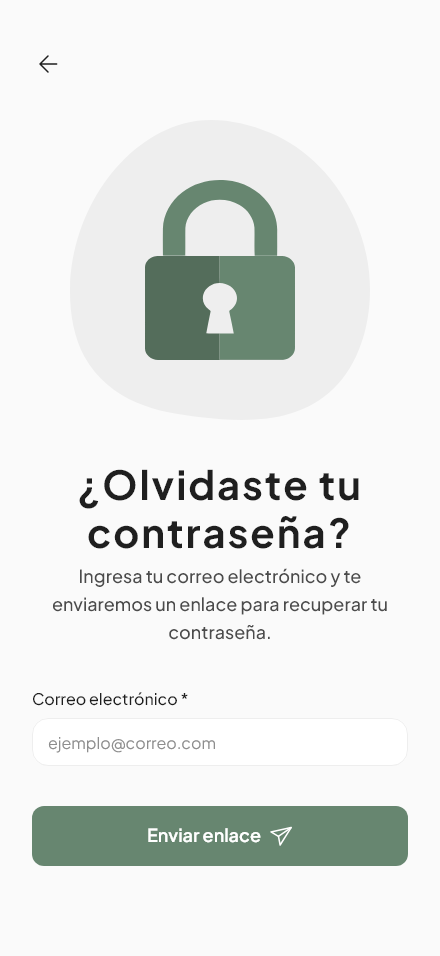
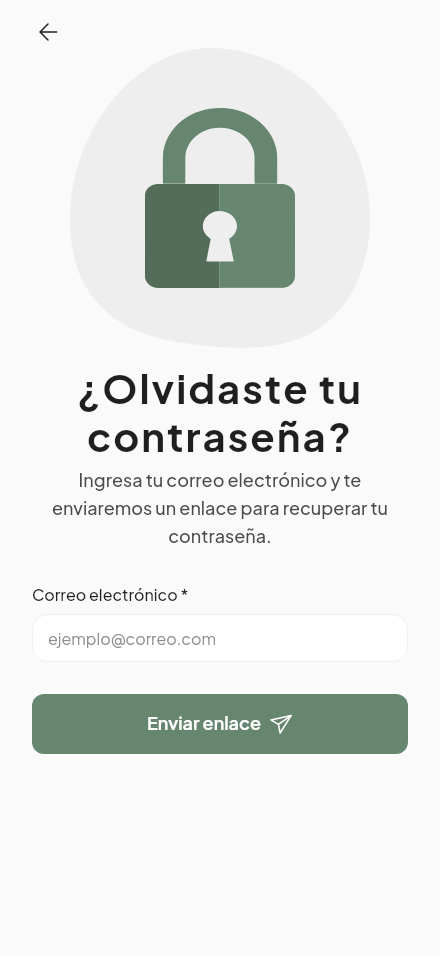
fix: fit the password reset screen without scrolling
Lift the back arrow closer to the top and let the illustration take the
height left over, so the screen fits one screen tall. With the keyboard
open the illustration shrinks away and the screen scrolls instead of
overflowing.

diff --git a/lib/screens/seedly_password_reset_screen.dart b/lib/screens/seedly_password_reset_screen.dart
@@ -30,6 +30,11 @@ class SeedlyPasswordResetScreen extends StatefulWidget {
 }
 
 class _SeedlyPasswordResetScreenState extends State<SeedlyPasswordResetScreen> {
+  /// Height of everything except the illustration (padding, header, texts,
+  /// field, button and their gaps), generously rounded up so the layout never
+  /// overflows; what is left over goes to the illustration.
+  static const _fixedHeight = 500.0;
+
   final _formKey = GlobalKey<FormState>();
   late final _email = TextEditingController(text: widget.initialEmail);
   bool _busy = false;
@@ -85,84 +90,98 @@ class _SeedlyPasswordResetScreenState extends State<SeedlyPasswordResetScreen> {
       child: Scaffold(
         backgroundColor: SeedlyPalette.neutral[100],
         body: SafeArea(
-          child: SingleChildScrollView(
-            keyboardDismissBehavior: ScrollViewKeyboardDismissBehavior.onDrag,
-            padding: const EdgeInsets.symmetric(horizontal: 32, vertical: 48),
-            child: Column(
-              crossAxisAlignment: CrossAxisAlignment.stretch,
-              children: [
-                SeedlyHeader(
-                  title: '',
-                  onBack: () => Navigator.of(context).pop(),
-                ),
-                const SizedBox(height: 40),
-                Center(
-                  // Shrinks with the screen on phones narrower than Figma's.
-                  child: FittedBox(
-                    fit: BoxFit.scaleDown,
-                    child: SizedBox.square(
-                      dimension: 300,
-                      child: Stack(
-                        alignment: Alignment.center,
-                        children: [
-                          SvgPicture.asset(
-                            'assets/images/recover_blob.svg',
-                            width: 300,
-                            height: 300,
+          // The illustration takes the height the rest of the screen leaves
+          // free, so it fits without scrolling. With the keyboard up it
+          // shrinks away and, if the form still doesn't fit, the screen
+          // scrolls instead of overflowing.
+          child: LayoutBuilder(
+            builder: (context, constraints) {
+              final illustration = (constraints.maxHeight - _fixedHeight).clamp(
+                0.0,
+                300.0,
+              );
+              return SingleChildScrollView(
+                keyboardDismissBehavior:
+                    ScrollViewKeyboardDismissBehavior.onDrag,
+                padding: const EdgeInsets.fromLTRB(32, 16, 32, 32),
+                child: Column(
+                  crossAxisAlignment: CrossAxisAlignment.stretch,
+                  children: [
+                    SeedlyHeader(
+                      title: '',
+                      onBack: () => Navigator.of(context).pop(),
+                    ),
+                    SizedBox(
+                      height: illustration,
+                      child: Center(
+                        child: FittedBox(
+                          fit: BoxFit.scaleDown,
+                          child: SizedBox.square(
+                            dimension: 300,
+                            child: Stack(
+                              alignment: Alignment.center,
+                              children: [
+                                SvgPicture.asset(
+                                  'assets/images/recover_blob.svg',
+                                  width: 300,
+                                  height: 300,
+                                ),
+                                SvgPicture.asset(
+                                  'assets/images/recover_lock.svg',
+                                  width: 150,
+                                  height: 180,
+                                ),
+                              ],
+                            ),
                           ),
-                          SvgPicture.asset(
-                            'assets/images/recover_lock.svg',
-                            width: 150,
-                            height: 180,
-                          ),
-                        ],
+                        ),
                       ),
                     ),
-                  ),
+                    const SizedBox(height: 16),
+                    Text(
+                      '¿Olvidaste tu contraseña?',
+                      textAlign: TextAlign.center,
+                      style: textTheme.displayMedium,
+                    ),
+                    const SizedBox(height: 6),
+                    Text(
+                      'Ingresa tu correo electrónico y te enviaremos un '
+                      'enlace para recuperar tu contraseña.',
+                      textAlign: TextAlign.center,
+                      style: textTheme.headlineSmall?.copyWith(
+                        fontWeight: FontWeight.w500,
+                        color: SeedlyPalette.neutral[700],
+                      ),
+                    ),
+                    const SizedBox(height: 32),
+                    Form(
+                      key: _formKey,
+                      autovalidateMode: _autovalidate,
+                      child: SeedlyInput(
+                        label: 'Correo electrónico *',
+                        hint: 'ejemplo@correo.com',
+                        controller: _email,
+                        keyboardType: TextInputType.emailAddress,
+                        textInputAction: TextInputAction.done,
+                        autofillHints: const [AutofillHints.email],
+                        validator: seedlyEmailError,
+                      ),
+                    ),
+                    const SizedBox(height: 32),
+                    SeedlyButton(
+                      label: 'Enviar enlace',
+                      expand: true,
+                      trailing: SvgPicture.asset(
+                        'assets/images/recover_send.svg',
+                        width: 24,
+                        height: 24,
+                      ),
+                      onPressed: _send,
+                    ),
+                  ],
                 ),
-                const SizedBox(height: 40),
-                Text(
-                  '¿Olvidaste tu contraseña?',
-                  textAlign: TextAlign.center,
-                  style: textTheme.displayMedium,
-                ),
-                const SizedBox(height: 6),
-                Text(
-                  'Ingresa tu correo electrónico y te enviaremos un enlace '
-                  'para recuperar tu contraseña.',
-                  textAlign: TextAlign.center,
-                  style: textTheme.headlineSmall?.copyWith(
-                    fontWeight: FontWeight.w500,
-                    color: SeedlyPalette.neutral[700],
-                  ),
-                ),
-                const SizedBox(height: 40),
-                Form(
-                  key: _formKey,
-                  autovalidateMode: _autovalidate,
-                  child: SeedlyInput(
-                    label: 'Correo electrónico *',
-                    hint: 'ejemplo@correo.com',
-                    controller: _email,
-                    keyboardType: TextInputType.emailAddress,
-                    textInputAction: TextInputAction.done,
-                    autofillHints: const [AutofillHints.email],
-                    validator: seedlyEmailError,
-                  ),
-                ),
-                const SizedBox(height: 40),
-                SeedlyButton(
-                  label: 'Enviar enlace',
-                  expand: true,
-                  trailing: SvgPicture.asset(
-                    'assets/images/recover_send.svg',
-                    width: 24,
-                    height: 24,
-                  ),
-                  onPressed: _send,
-                ),
-              ],
-            ),
+              );
+            },
           ),
         ),
       ),

diff --git a/test/password_reset_screen_test.dart b/test/password_reset_screen_test.dart
@@ -152,9 +152,6 @@ void main() {
   testWidgets('an alert leaves the back arrow free to tap', (tester) async {
     await openFromLogin(tester, FakeSeedlyAuthRepository(), loginEmail: 'ana@');
     await send(tester);
-    // Sending scrolled down to the button; the arrow comes back on scroll.
-    await tester.ensureVisible(find.byTooltip('Volver'));
-    await tester.pumpAndSettle();
 
     expect(find.byType(SeedlyAlert), findsOneWidget);
     expect(
@@ -168,9 +165,14 @@ void main() {
     expect(find.byType(SeedlyAlert), findsNothing);
   });
 
-  testWidgets('it can be scrolled on a compact phone', (tester) async {
-    tester.view.physicalSize = const Size(320, 640);
+  Future<void> pumpAt(
+    WidgetTester tester,
+    Size size, {
+    double keyboard = 0,
+  }) async {
+    tester.view.physicalSize = size;
     tester.view.devicePixelRatio = 1;
+    tester.view.viewInsets = FakeViewPadding(bottom: keyboard);
     addTearDown(tester.view.reset);
 
     await tester.pumpWidget(
@@ -179,9 +181,23 @@ void main() {
         home: SeedlyPasswordResetScreen(auth: FakeSeedlyAuthRepository()),
       ),
     );
-    await tester.ensureVisible(find.text('Enviar enlace'));
+  }
 
-    expect(find.text('Enviar enlace'), findsOneWidget);
+  testWidgets('it fits a standard phone without scrolling', (tester) async {
+    await pumpAt(tester, const Size(412, 892));
+
+    final scroll = tester.state<ScrollableState>(find.byType(Scrollable).first);
+    expect(scroll.position.maxScrollExtent, 0);
     expect(tester.takeException(), isNull);
+  });
+
+  testWidgets('the keyboard never overflows the screen', (tester) async {
+    for (final size in const [Size(412, 892), Size(320, 640)]) {
+      await pumpAt(tester, size, keyboard: 300);
+      await tester.ensureVisible(find.text('Enviar enlace'));
+
+      expect(find.text('Enviar enlace'), findsOneWidget);
+      expect(tester.takeException(), isNull, reason: '$size with keyboard');
+    }
   });
 }
